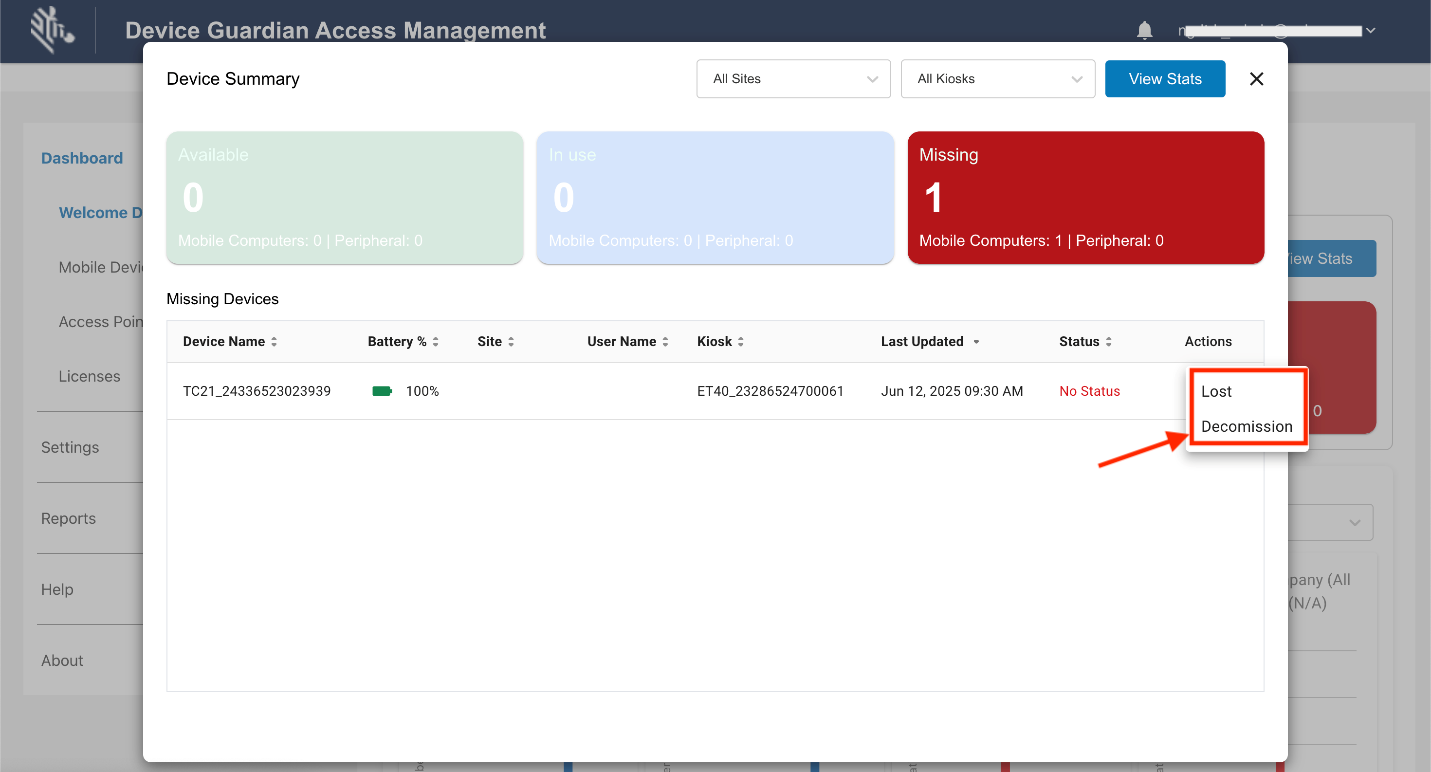
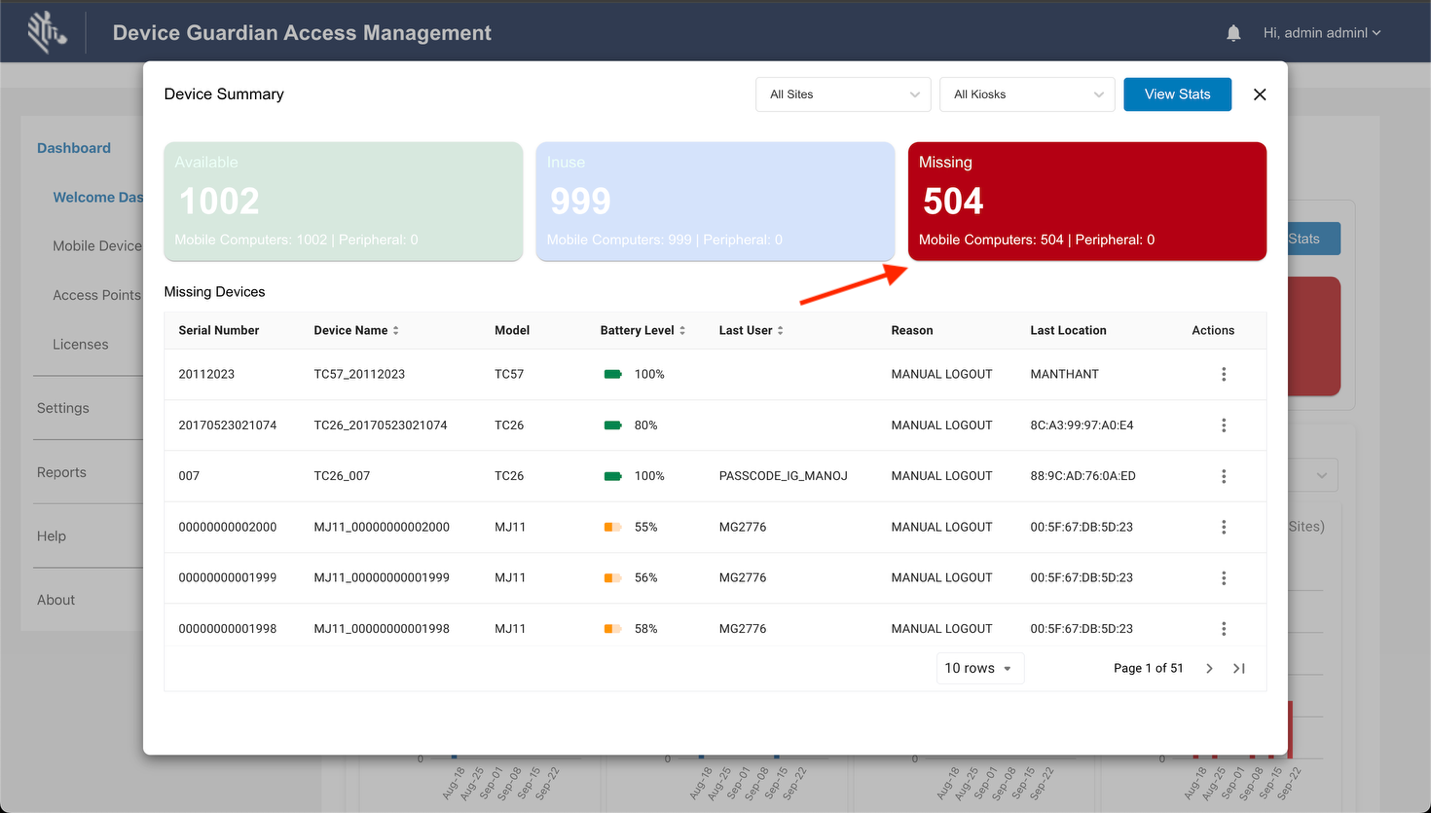
[DGN-2574] DGAM 2.0 - New Reset Password & Device Summary

diff --git a/deviceguardian/2-0/config/index.html b/deviceguardian/2-0/config/index.html
@@ -981,30 +981,61 @@ To edit the site to which a manager is assigned:
 
 <h3 id="resetpassword" class="anchor"><a class="heading-anchor" href="#resetpassword"><span></span></a>Reset Password</h3>
 
-<p>The password is set or reset through the web portal for Admin Users.</p>
+<p>There are two methods for resetting a password:</p>
 
-<p>Steps to set or reset the password for Admin Users:</p>
+<ul>
+<li><strong>Via the Login Page of the Web Portal -</strong> This option also allows setting a password for initial login.</li>
+
+<li><strong>Using the Edit User screen -</strong> Accessible through the web portal interface</li>
+</ul>
+
+<h4 id="webportal" class="anchor"><a class="heading-anchor" href="#webportal"><span></span></a>Web Portal</h4>
+
+<p>Steps for Admin or Manager Users to set or reset the password via the web portal:</p>
 
 <ol>
-<li>From the web portal login page, click <strong>Forgot your password.</strong>
+<li>On the web portal login page, click <strong>Forgot your password.</strong>
 <img alt="image" style="height:350px" src="portal-login.jpg"></li>
 
 <li>Enter your email address then click <strong>Reset Password.</strong></li>
 
-<li>A message appears indicating a password reset email is sent.</li>
+<li>A message appears indicating that a password reset email has been sent. </li>
 
-<li>Open the email and click on the link.</li>
+<li>Open the email and click on the provided reset link.</li>
 
-<li>Enter the new password based on the following guidelines:
+<li>Enter the new password, ensuring it meets the following guidelines:
 
 
 <ul>
-<li>Minimum length: 6 characters</li>
+<li><strong>Minimum length:</strong> 6 characters</li>
 
-<li>Any combination of letters, numbers and symbols (ASCII-standard characters) are accepted.</li></ul>
+<li><strong>Allowed characters:</strong> Any combination of letters, numbers and symbols (ASCII-standard)</li></ul>
 </li>
+</ol>
 
-<li>The password is reset with the new password.</li>
+<h4 id="edituserscreen" class="anchor"><a class="heading-anchor" href="#edituserscreen"><span></span></a>Edit User Screen</h4>
+
+<p>Steps for Admin Users to reset a password for any user through the Edit User screen:</p>
+
+<ol>
+<li><p>In the web portal, navigate to <strong>Settings &gt; User Management.</strong></p></li>
+
+<li><p>Locate the user and click the edit icon in the <strong>Actions</strong> column.</p></li>
+
+<li><p>Click <strong>Reset Password.</strong></p></li>
+
+<li><p>A password reset email is sent to the user, and the reset link remains valid for 1 hour.</p></li>
+
+<li><p>Open the email and click on the reset link.</p></li>
+
+<li><p>Enter a new password, ensuring it meets the following guidelines:</p>
+
+<ul>
+<li><strong>Minimum length:</strong> 6 characters</li>
+
+<li><strong>Allowed characters:</strong> Any combination of letters, numbers and symbols (ASCII-standard)</li></ul>
+
+<p><img alt="image" style="height:450px" src="reset-password-edit-user.png"></p></li>
 </ol>
 
 <hr>

diff --git a/deviceguardian/2-0/dgam/index.html b/deviceguardian/2-0/dgam/index.html
@@ -767,23 +767,23 @@ Dashboard actions:
 
 <p><em>Welcome Dashboard guide</em></p>
 
-<p>It features three prominent cards that shows device counts. Click on each card for more device details:</p>
+<p>It features three prominent cards that shows device counts. Click on each card to display the Device Summary for that category:</p>
 
 <ul>
-<li><strong>Available -</strong> Lists devices currently on charge with no user logged in. Information provided includes: Device Name, Battery %, Site, User Name, Kiosk, and Last Updated.
+<li><strong>Available -</strong> Lists devices currently on charge with no user logged in. Information provided includes: Serial Number, Device Name, Model, and Battery Level.
 <img alt="image" style="height:450px" src="portal-avail-devices.png"></li>
 
-<li><strong>In Use -</strong> Lists devices with users authenticated via <a href="/identityguardian">Identity Guardian</a>. Information provided includes: Device Name, Battery %, Site, User Name, Kiosk, and Last Updated. To take action on a specific device, tap the menu icon in the Actions column:
+<li><strong>In Use -</strong> Lists devices with users authenticated via <a href="/identityguardian">Identity Guardian</a>. Information provided includes: Serial Number, Device Name, Model, Battery Level, User, Location (AP), and Actions menu. To take action on a specific device, tap the menu icon in the Actions column:
 
 
 <ul>
 <li><strong>Lost -</strong> Select this option to mark the device as "Lost" after unsuccessful attempts to locate it. Lost devices can be viewed in the <a href="#devices">Devices report</a>.</li>
 
 <li><strong>Decommission -</strong> Select this option to decommission the device, removing its license and placing it out-of-service.
-<img alt="image" style="height:450px" src="portal-in-use.jpg"></li></ul>
+<img alt="image" style="height:450px" src="portal-in-use.png"></li></ul>
 </li>
 
-<li><strong>Missing -</strong> Lists devices that have been logged out by the user and have not been returned to the kiosk, or that could not be recovered. Information provided includes: Device Name, Battery %, Site, User Name, Kiosk, Last Updated, and Status. To take action on a specific device, tap the menu icon in the Actions column:
+<li><strong>Missing -</strong> Lists devices that have been logged out by the user and have not been returned to the kiosk, or that could not be recovered. Information provided includes: Serial Number, Device Name, Model, Battery Level, Last User, Reason, Last Locatino (AP), and Actions menu. To take action on a specific device, tap the menu icon in the Actions column:
 
 
 <ul>

diff --git a/deviceguardian/2-0/about/index.html b/deviceguardian/2-0/about/index.html
@@ -351,6 +351,10 @@
 <li><strong>Enhancements to the <a href="../dgam/#kioskdashboard">Kiosk Dashboard</a> -</strong> Refinements have been made to the dashboard's column layout and device information display, enhancing accessibility and usability across all device statuses - Available, In Use, and Missing - for a more streamlined and user-friendly experience.</li>
 
 <li><strong>The <a href="../config/#deviceusers">Device Users</a> feature allows associates to be added to the Device Guardian system, enabling them to log in to devices using passcodes.</strong> Alternatively, admins or managers streamline this process by adding users in bulk into <a href="/zebradna">Zebra DNA Cloud</a> for seamless integration with Device Guardian.</li>
+
+<li><strong>Implemented a new method for resetting user passwords through the <a href="../config/#edituserscreen">Edit User screen</a>.</strong></li>
+
+<li><strong>Updated the Device Summary in the DGAM <a href="../dgam/#webportal">web portal</a> by reorganizing the column layout to improve clarity and focus.</strong> Only the most relevant columns are now displayed to prioritize important information.</li>
 </ul>
 
 <hr>
